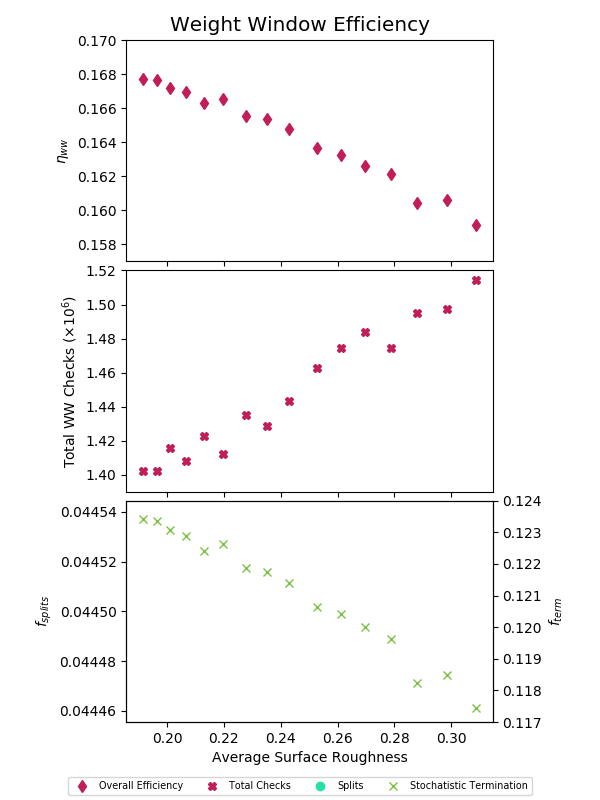
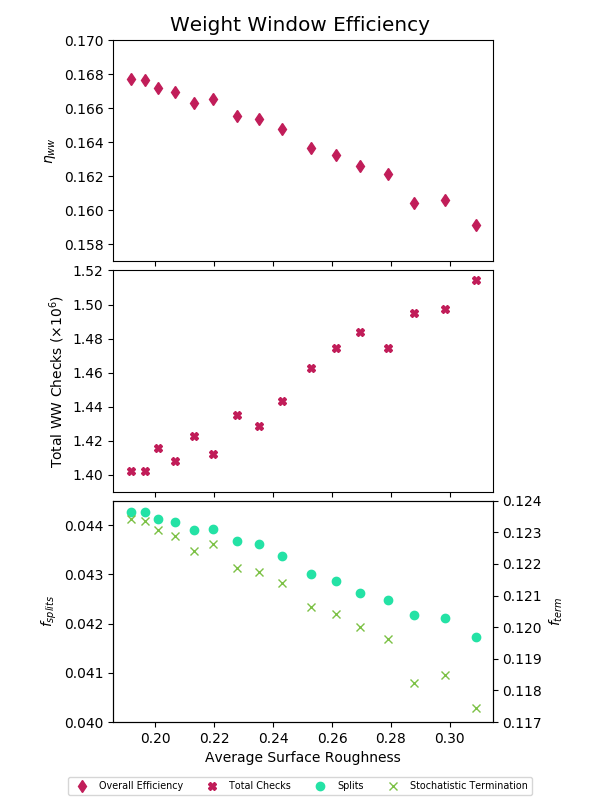
mistaken y lim on f splits plot

diff --git a/performance-analysis/analysis/plot_tally_data.py b/performance-analysis/analysis/plot_tally_data.py
@@ -441,7 +441,7 @@ def plot_ww_efficiency(df_output, refinement, df_measure=None):
     if df_measure is not None:
         ax[0].set_ylim((0.157, 0.17))  ## overall
         ax[1].set_ylim((1.39, 1.52))  ## total num
-        ax[2].set_ylim((0.0445, 0.0445))  ## f splits
+        ax[2].set_ylim((0.04, 0.0445))  ## f splits
         ax2.set_ylim((0.117, 0.124))  # f terms
 
     title = 'Weight Window Efficiency'
